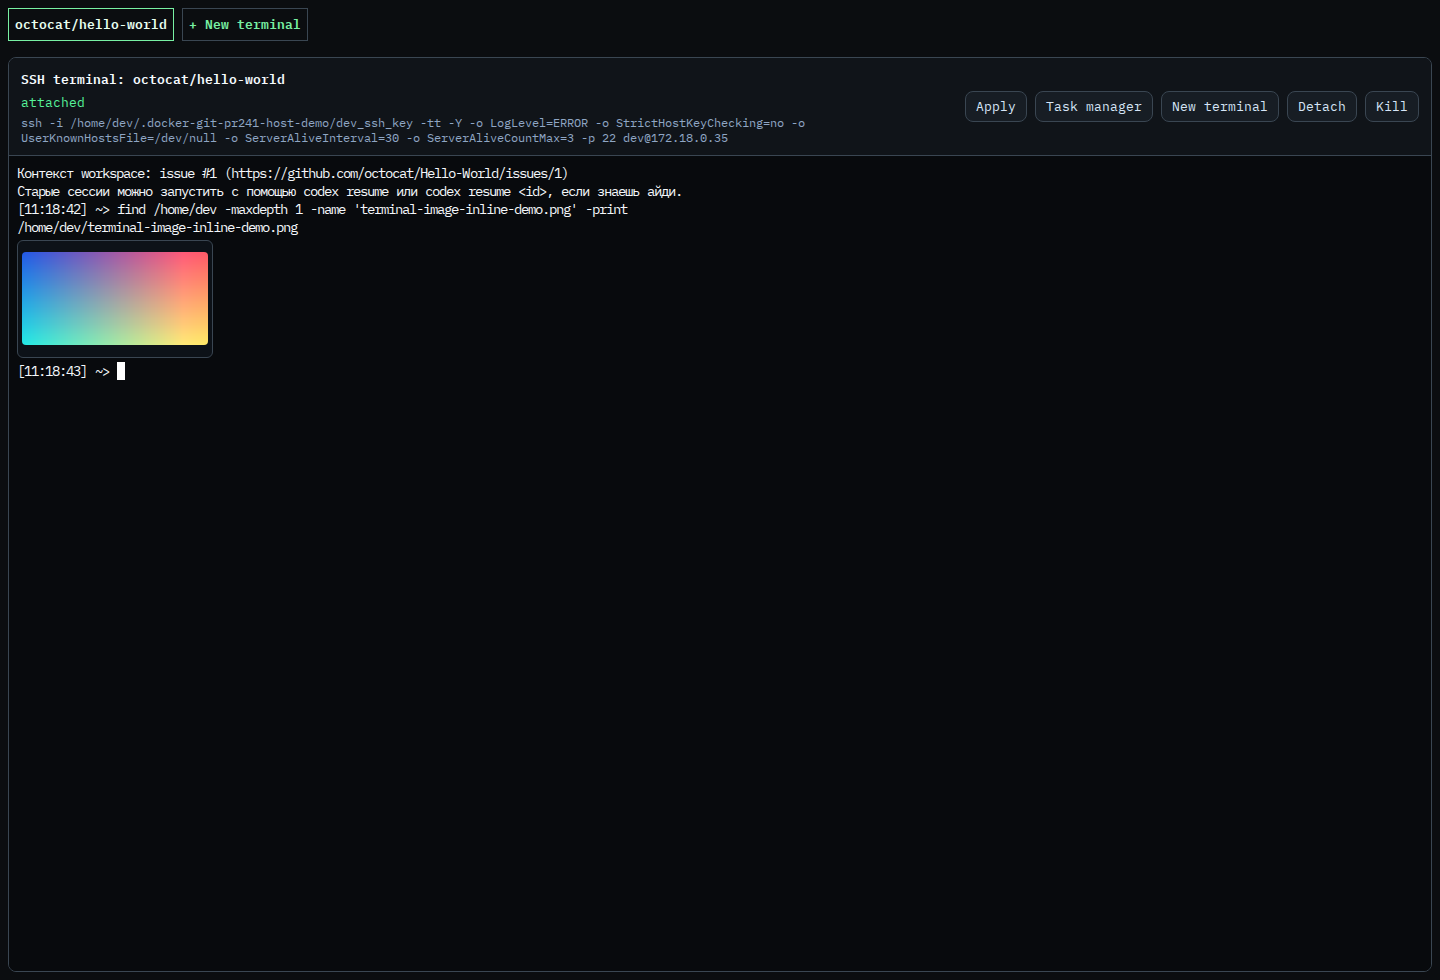
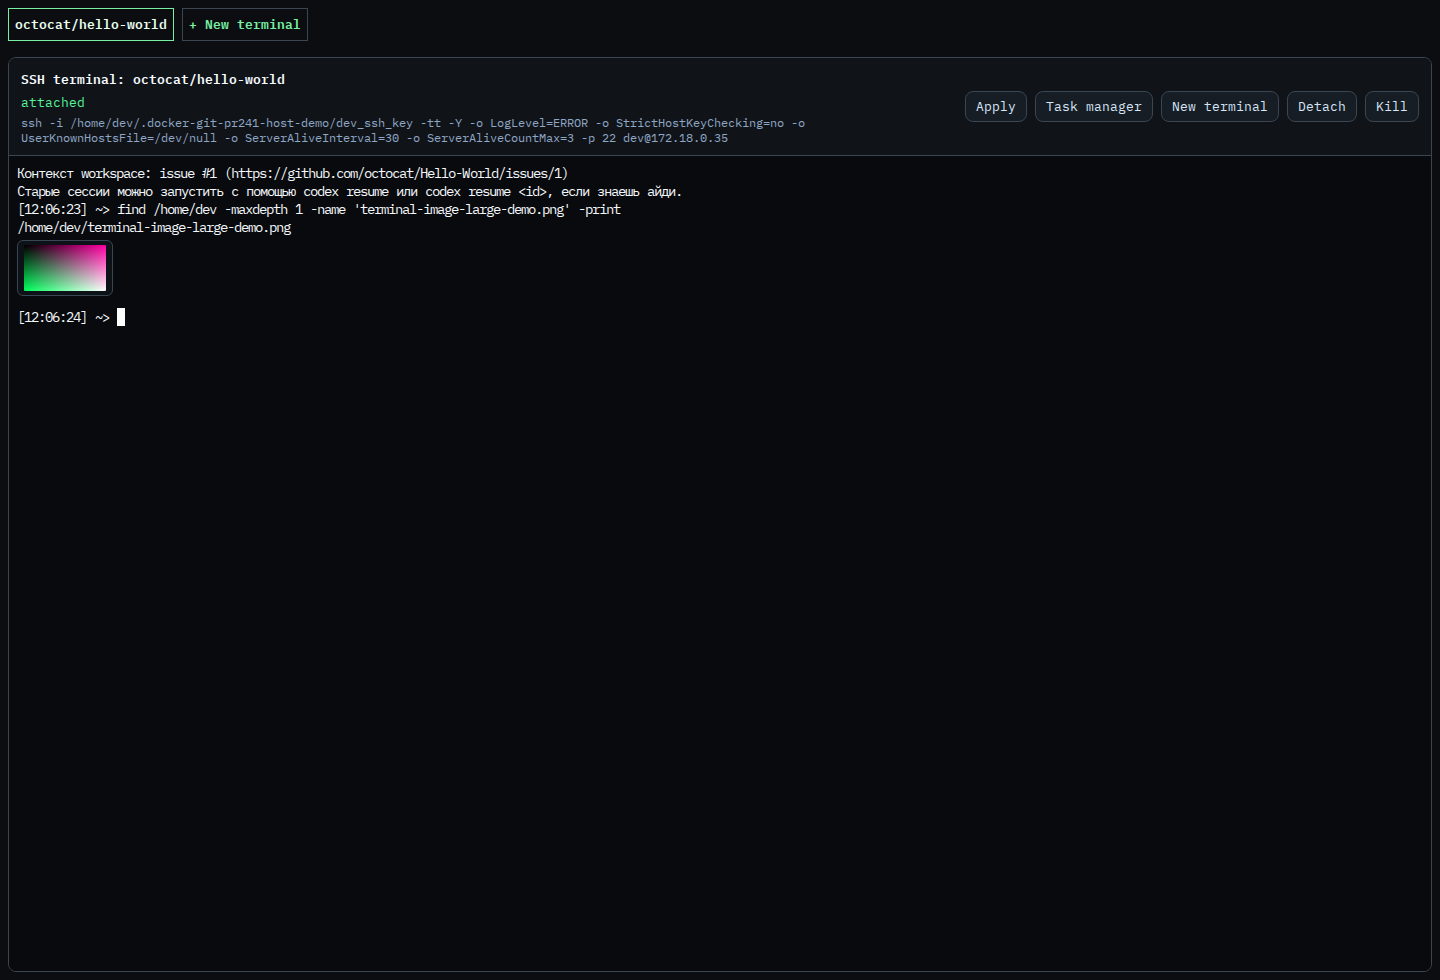
fix(app): cap terminal inline image previews

Changed region(s): [[0.0, 0.2143, 0.2188, 0.398], [0.3438, 0.1837, 0.4375, 0.2449]]

diff --git a/packages/app/src/web/terminal-inline-images.ts b/packages/app/src/web/terminal-inline-images.ts
@@ -6,11 +6,13 @@ import type { TerminalLifecycleState } from "./terminal-panel-runtime-types.js"
 import type { ActiveTerminalSession } from "./terminal.js"
 
 export const terminalInlineImagePreviewLimit = 20
-export const terminalInlineImagePreviewRows = 7
+export const terminalInlineImagePreviewRows = 4
 
 export const terminalInlineImageSpacer = "\r\n".repeat(terminalInlineImagePreviewRows)
 
-const terminalInlineImagePreviewColumns = 28
+const terminalInlineImagePreviewColumns = 16
+const terminalInlineImagePreviewHeightPx = 56
+const terminalInlineImagePreviewWidthPx = 96
 
 type TerminalInlineImageEntry = {
   readonly fetchUrl: string
@@ -56,21 +58,21 @@ const renderInlineImageElement = (
   link.style.boxSizing = "border-box"
   link.style.cursor = "pointer"
   link.style.display = "inline-flex"
-  link.style.height = "calc(100% - 8px)"
+  link.style.height = `min(${terminalInlineImagePreviewHeightPx}px, calc(100% - 8px))`
   link.style.justifyContent = "center"
   link.style.margin = "4px 0"
   link.style.padding = "4px"
   link.style.pointerEvents = "auto"
-  link.style.width = "100%"
+  link.style.width = `min(${terminalInlineImagePreviewWidthPx}px, 100%)`
 
   const image = document.createElement("img")
   image.alt = entry.path
   image.src = entry.fetchUrl
   image.style.borderRadius = "4px"
   image.style.display = "block"
-  image.style.maxHeight = "100%"
-  image.style.maxWidth = "100%"
+  image.style.height = "100%"
   image.style.objectFit = "contain"
+  image.style.width = "100%"
 
   link.append(image)
   element.dataset["path"] = entry.path

diff --git a/packages/app/tests/docker-git/terminal-inline-images-core.test.ts b/packages/app/tests/docker-git/terminal-inline-images-core.test.ts
@@ -1,6 +1,7 @@
 import { describe, expect, it } from "@effect/vitest"
 
 import { splitTerminalInlineImageOutput } from "../../src/web/terminal-inline-images-core.js"
+import { terminalInlineImagePreviewRows, terminalInlineImageSpacer } from "../../src/web/terminal-inline-images.js"
 
 describe("terminal inline image output", () => {
   it("keeps prompt output after a completed image path line in a later segment", () => {
@@ -26,5 +27,10 @@ describe("terminal inline image output", () => {
         text: "saved /var/data/a.png"
       }
     ])
+  })
+
+  it("keeps inline image previews compact in the terminal output stream", () => {
+    expect(terminalInlineImagePreviewRows).toBe(4)
+    expect(terminalInlineImageSpacer).toBe("\r\n\r\n\r\n\r\n")
   })
 })
